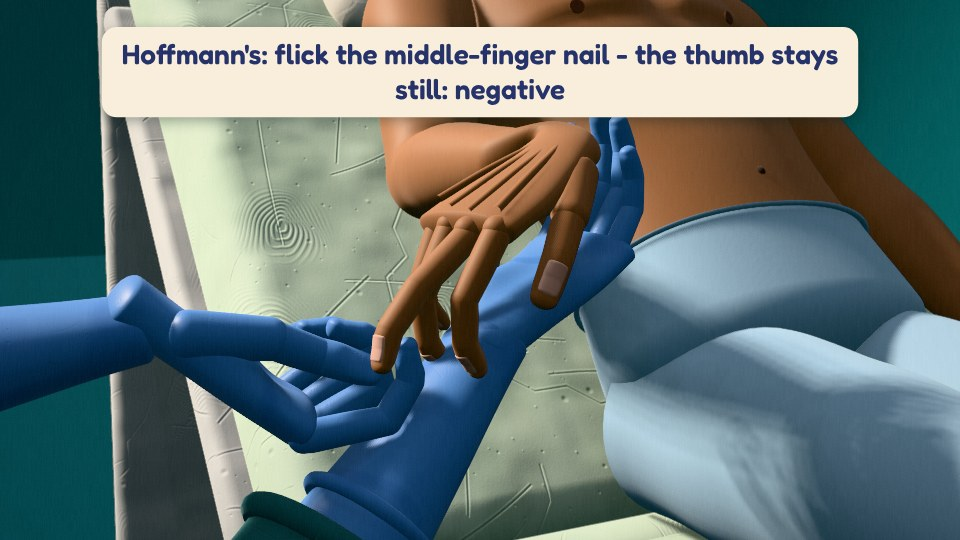
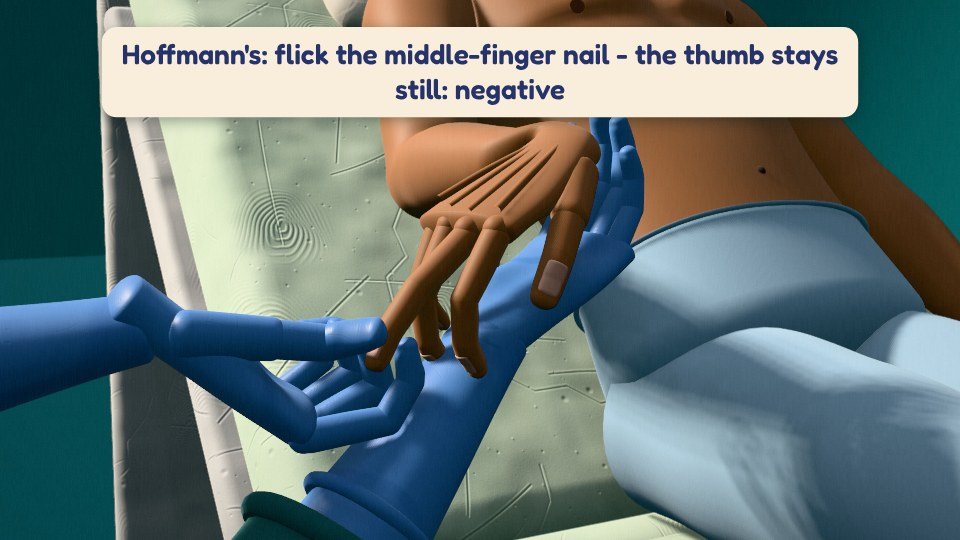
Round 3 solve: triceps arm on the mattress (elbow 90, forearm across, strike 3 cm above the olecranon from outside), biceps fingers curled round the elbow onto the skin, supinator fingers straight and together along the radius, reinforcement face insert and tighter tap shot; panels renumbered for th
Claude-Session: https://claude.ai/code/session_018C3XZZwWfCkMA58rbqUkQr

Changed region(s): [[0.2812, 0.563, 0.4375, 0.8]]

diff --git a/src/cns7-style.js b/src/cns7-style.js
@@ -69,7 +69,7 @@
   const KEYS = {
     cam: [[0, 'home'], [HOME_HOLD, 'home'], [4.6, 'upper'], [6.5, 'upper'], [8.2, 'bicR'], [10.8, 'bicR'], [10.8, 'bicL', 'cut'],
       [15.0, 'supR', 'cut'], [18.4, 'supL', 'cut'], [24.0, 'triR', 'cut'], [30.1, 'triL', 'cut'],
-      [34.0, 'reinf', 'cut'], [41.0, 'knees', 'cut'], [51.0, 'jend', 'cut'], [59.0, 'legsWide', 'cut'], [60.9, 'legsWide'], [60.9, 'ankR', 'cut'], [63.4, 'ankL', 'cut'],
+      [34.0, 'reinf', 'cut'], [35.6, 'reinfFace', 'cut'], [36.6, 'reinf', 'cut'], [41.0, 'knees', 'cut'], [51.0, 'jend', 'cut'], [59.0, 'legsWide', 'cut'], [60.9, 'legsWide'], [60.9, 'ankR', 'cut'], [63.4, 'ankL', 'cut'],
       [69.0, 'clonR', 'cut'], [74.2, 'clonL', 'cut'], [78.0, 'kneeClonR', 'cut'], [81.6, 'kneeClonL', 'cut'], [85.0, 'hoffR', 'cut'], [89.2, 'hoffL', 'cut'],
       [94.0, 'upper', 'cut'], [96.0, 'home'], [D, 'home']],
     armR: [[0, 'home'], [6.5, 'home'], [7.6, 'abdR'], [24.9, 'abdR'], [26.2, 'chestR'], [28.3, 'chestR'], [29.3, 'abdR'], [42.5, 'abdR'], [43.4, 'home'], [52.5, 'home'], [53.6, 'jend0R'], [54.25, 'jend0R'], [54.4, 'jend1R'], [55.6, 'jend1R'], [56.1, 'jend0R'], [57.1, 'home'],
@@ -278,6 +278,22 @@
           return { ex: { hand: 'R', wrist: k.wrist, quat: k.quat, pose: k.pose, back: d.clone().negate().add(V(0.2, -0.25, 0.7)).normalize() }, hammerPos: k.hammerPos, hammerQuat: k.hammerQuat, target: target.clone(), normal: normal.clone(), hand: 'R', gap: k.measured };
         };
 
+        // the strike, searched over the swing plane about the target's normal: the raised hammer (bounce and top, either way)
+        // clears all of him and the mattress, the handle clears him at the strike, the hammer hand high
+        const strikeSearch = (T, n, dirBase, fld, name) => {
+          const hmAll = []; hammer.group.traverse((m) => { if (m.isMesh) hmAll.push(m); });
+          const handle = hmAll.filter((m) => !hammer.head.children.includes(m)), pf = CONTACT.field(patientMeshes()); let bk = null;
+          for (let ang = 0; ang < 360; ang += 30) {
+            const k2 = solveStrike(T, n, dirBase.clone().applyAxisAngle(n, ang * Math.PI / 180), fld);
+            let g = -Infinity; for (const sg of [1, -1]) { let gs = Infinity; for (const a of [0.12, 0.3, 0.62]) { applyStrike(k2, sg * a); const x = CONTACT.minGap(hmAll, pf, null, 0, 0.3, 2).gap; gs = Math.min(gs, isFinite(x) ? x : 0.03, bedGap(hmAll).gap); } g = Math.max(g, gs); }
+            applyStrike(k2, 0); const hx = CONTACT.minGap(handle, pf, null, 0, 0.3, 2).gap, bg = bedGap(hmAll).gap;
+            const sc = 10 * Math.max(0, 0.008 - g) + 10 * Math.max(0, 0.003 - (isFinite(hx) ? hx : 0.03)) + 10 * Math.max(0, 0.002 - bg) - 0.001 * k2.ex.wrist.y + 0.0002 * Math.min(ang, 360 - ang) / 30;
+            if (!bk || sc < bk.sc) bk = { sc, k2, ang, g };
+          }
+          log(name, 'strike: swing plane turned', bk.ang, 'deg; raised hammer to his skin / the mattress', mm(bk.g), 'mm, gap at the strike', mm(bk.k2.gap), 'mm');
+          bk.k2.ex.sleeve = SLEEVE_UP.clone();
+          return bk.k2;
+        };
         // --------------------------------------------------- his arms across his abdomen (biceps and supinator jerks)
         // The kit's acrossAbdomen preset, fine-tuned: the elbow rests on the mattress beside his trunk (or, lifted
         // `up` units, in the examiner's cupped palm), the forearm across his lower abdomen, the hand palm down on it,
@@ -296,12 +312,12 @@
             // the wrist on his lower abdomen at forearm length from the elbow
             const wAt = (xw) => { const r = P.surfacePoint(-sz * xw, WS, 'front'); if (!r) return null; return { p: r.point.clone().addScaledVector(r.normal, lift), n: r.normal }; };
             let a = WX, b = 2.6; for (let k = 0; k < 40; k++) { const m = (a + b) / 2, wm = wAt(m); if (wm && wm.p.distanceTo(E) > L2 - 0.03) a = m; else b = m; }
-            const w = wAt((a + b) / 2);
+            const w = wAt((a + b) / 2); if (!w) return null;                 // no trunk surface there (too high): the caller backs off
             const fd = F.left.clone().multiplyScalar(sz).addScaledVector(F.up, -0.18).normalize();
             const mid = Sh.clone().lerp(w.p, 0.5), pole = E.clone().sub(mid).normalize();
             st = { wrist: w.p, quat: HANDS.quat(fd, w.n), pose: FINGERS_REST, pole };
             applyArm(side, st);
-            const fld = CONTACT.field(torsoMeshes()), g = Math.min(CONTACT.minGap(armMeshes(side).slice(0, 1), fld, w.p, 1.3).gap, CONTACT.minGap(armMeshes(side).slice(1), fld, null, 0).gap);
+            const fld = CONTACT.field(torsoMeshes()), RR = o.R || 0.06, g = Math.min(CONTACT.minGap(armMeshes(side).slice(0, 1), fld, w.p, 1.3, RR).gap, CONTACT.minGap(armMeshes(side).slice(1), fld, null, 0, RR).gap);   // o.R: the search range (wide where the hand starts deep in him)
             if (!isFinite(g)) { lift -= 0.06; continue; }
             if (Math.abs(g - 0.0006) < 0.0002) break;
             lift -= g - 0.0006;
@@ -368,7 +384,7 @@
         // The grasp: the palm rests against the outside of his elbow, the fingers settle round it, the thumb reaches across
         // the front of the elbow and its pad rests on the tendon. Searched: where the palm rests (round the arm, along it),
         // how the hand is turned on the skin; scored on the thumb's reach, no part sinking, the forearm toward the examiner.
-        const GRASP_POSE = { all: [0.35, 0.5, 0.3], spread: 0.3, fan: { index: 0.03, middle: 0, ring: -0.03, little: -0.07 }, thumb: [0.2, 0, 0.15, 0.1] };
+        const GRASP_POSE = { all: [0.35, 0.5, 0.3], spread: 0.08, fan: { index: 0.01, middle: 0, ring: -0.01, little: -0.03 }, thumb: [0.2, 0, 0.15, 0.1] };   // fingers together
         const graspTendon = (side, hand, T, n, want, o = {}) => {
           const a = P.arms[side], b = bendInside(side), fld = CONTACT.field([a.armMesh]), tor = CONTACT.field(torsoMeshes()), caps = armCaps(side);
           const rcm = new THREE.Mesh(a.armMesh.geometry, new THREE.MeshBasicMaterial({ side: THREE.DoubleSide })); rcm.matrixWorld.copy(a.armMesh.matrixWorld); rcm.matrixAutoUpdate = false;
@@ -396,18 +412,19 @@
           // settle: the palm onto the skin, then the fingers round the arm, then the thumb pad on the tendon
           hand.pose(GRASP_POSE);
           CONTACT.rest(hand, 'palm', best.at, best.nn, best.quat, fld, 0.0006, 0.3);
-          const ex = { hand: hand === EX.L.hand ? 'L' : 'R', wrist: hand.group.position.clone(), quat: best.quat, pose: GRASP_POSE, back: V(-1, 0, 0).applyQuaternion(best.quat).normalize() };
+          const ex = { hand: hand === EX.L.hand ? 'L' : 'R', wrist: hand.group.position.clone(), quat: best.quat, pose: GRASP_POSE, back: V(-1, 0, 0).applyQuaternion(best.quat).normalize(), sleeve: SLEEVE_UP.clone() };
           applyEx(ex.hand, ex);
-          ex.pose = CONTACT.curlToTouch(hand, ['index', 'middle', 'ring', 'little'], fld, GRASP_POSE, { gap: 0.0006, from: -0.3, to: 1.4 });
+          ex.pose = CONTACT.curlToTouch(hand, ['index', 'middle', 'ring', 'little'], fld, GRASP_POSE, { gap: 0.0006, from: -0.3, to: 1.4 });   // each finger settles round his elbow onto the skin
           applyEx(ex.hand, ex);
           const th = CONTACT.thumbOn(hand, T, n, fld, 0.0006);
-          ex.thumbQ = th.tq;
+          ex.thumbQ = th.tq; applyEx(ex.hand, ex);
+          { const all = CONTACT.field([a.armMesh].concat(torsoMeshes())), g = CONTACT.minGap(handMeshes(hand), all, null, 0, 0.15).gap; if (g < 0) { ex.wrist = ex.wrist.clone().addScaledVector(best.nn, 0.0003 - g); applyEx(ex.hand, ex); } }   // nothing under his skin
           log('grasp', side, 'palm at', best.along, 'along, round', best.ang, 'turn', best.psi, 'reach', best.reach.toFixed(2), 'score', best.sc.toFixed(3), '| thumb pad', mm(th.pad), 'mm, lowest thumb point', mm(th.all), 'mm');
           return ex;
         };
         // the hand flat on the FRONT of his upper arm (which faces the same way as the tendon), fingers together pointing up
         // his arm toward the shoulder; the thumb then lies along the crease and its pad rests on the tendon
-        const FRONT_POSE = { all: [0.12, 0.16, 0.1], spread: 0.25, fan: { index: 0.03, middle: 0, ring: -0.03, little: -0.07 }, thumb: [0.2, 0, 0.15, 0.1] };
+        const FRONT_POSE = { all: [0.12, 0.16, 0.1], spread: 0.06, fan: { index: 0.03, middle: 0, ring: -0.03, little: -0.07 }, thumb: [0.2, 0, 0.15, 0.1] };
         const thumbBiceps = () => {
           const side = 'R', hand = EX.L.hand; applyArm(side, SOL.arms.abdR);
           const T = SOL.lm.bicepsTendon_R.point, n = SOL.lm.bicepsTendon_R.normal, b = bendInside(side), fld = CONTACT.field([P.arms[side].armMesh]);
@@ -416,7 +433,7 @@
           // The hand flat on the front of his upper arm just above the elbow, turned on the skin by psi from "fingers up his
           // arm" so that the examiner's forearm can rise from the wrist toward him with a natural wrist (bent back at most
           // 50 degrees, never sideways); the hand slides up the arm until the thumb's base is at 0.6 of its reach from the tendon.
-          const D = V(0.55, 0.65, 0.5).normalize(), torF = CONTACT.field(torsoMeshes());                       // the examiner's forearm: up and toward his feet (he stands at the level of his hip)
+          let D = V(0.55, 0.65, 0.5).normalize(); const torF = CONTACT.field(torsoMeshes()), outside = V(0, -0.3, 1).normalize();   // outside / back of his right elbow                       // the examiner's forearm: up and toward his feet (he stands at the level of his hip)
           const acr = V(0, 0, 0).crossVectors(n, b.u).normalize();
           const placeAt = (back, psi, ac = 0) => {
             const c = T.clone().addScaledVector(b.u, back).addScaledVector(acr, ac), hit = new THREE.Raycaster(c.clone().addScaledVector(n, 1.2), n.clone().negate()).intersectObject(rcm, false)[0];
@@ -428,19 +445,23 @@
             return hand.thumb.base.getWorldPosition(V(0, 0, 0)).distanceTo(T) / 1.04;
           };
           let bestB = null;
-          for (const psi of [0, -0.8, 0.8, -1.2, -1.6, 1.6]) for (const ac of [0, 0.15, -0.15, 0.3, -0.3]) {
+          for (const Dc of [V(0.55, 0.65, 0.5), V(0.15, 0.95, 0.2)]) for (const psi of [-1.6, -0.8, 0.8, 1.6]) for (const ac of [0, -0.3, 0.3]) {
+            D = Dc.clone().normalize();
             let lo = 0.0, hi = 1.6; for (let it = 0; it < 11; it++) { const m = (lo + hi) / 2; if (placeAt(m, psi, ac) < 0.6) lo = m; else hi = m; }
             const r = placeAt((lo + hi) / 2, psi, ac); const e0 = ex;
             const th = CONTACT.thumbOn(hand, T, n, fld, 0.0009), sink = Math.min(CONTACT.minGap(handMeshes(hand), fld, null, 0, 0.15, 3).gap, CONTACT.minGap(handMeshes(hand), torF, null, 0, 0.15, 3).gap);
             const up = Math.max(0, 0.35 - e0.back.y);                      // the forearm must rise (never down toward the bed or across his body)
-            const sc = Math.abs((isFinite(th.pad) ? th.pad : 0.03) - 0.0006) + 4 * Math.max(0, -sink) + 0.004 * Math.max(0, e0.ang - 0.87) + 0.05 * up + 0.0003 * Math.abs(psi);
+            const fdir = V(1, 0, 0).applyQuaternion(e0.quat), wrap = Math.max(0, 0.6 - fdir.dot(outside));   // the fingers point round the outside of the elbow
+            const sc = Math.abs((isFinite(th.pad) ? th.pad : 0.03) - 0.0006) + 4 * Math.max(0, -sink) + 0.004 * Math.max(0, e0.ang - 0.87) + 0.05 * up + 0.003 * wrap + 0.0003 * Math.abs(psi);
             log('biceps hand turn', psi, 'across', ac, 'thumb pad', mm(th.pad), 'lowest', mm(sink), 'mm, wrist to the forearm line', (e0.ang * 180 / Math.PI).toFixed(0), 'deg');
-            if (!bestB || sc < bestB.sc) bestB = { sc, m: (lo + hi) / 2, psi, ac, r };
+            if (!bestB || sc < bestB.sc) bestB = { sc, m: (lo + hi) / 2, psi, ac, r, D: D.clone() };
           }
-          const reach = placeAt(bestB.m, bestB.psi, bestB.ac), lo = bestB.m, hi = bestB.m; delete ex.psi; delete ex.ang;
-          ex.pose = CONTACT.curlToTouch(hand, ['index', 'middle', 'ring', 'little'], fld, FRONT_POSE, { gap: 0.0006, from: -0.2, to: 1.0, together: true }); applyEx('L', ex);
+          D = bestB.D; const reach = placeAt(bestB.m, bestB.psi, bestB.ac), lo = bestB.m, hi = bestB.m; delete ex.psi; delete ex.ang;
+          ex.pose = CONTACT.curlToTouch(hand, ['index', 'middle', 'ring', 'little'], fld, FRONT_POSE, { gap: 0.0006, from: -0.2, to: 1.6 }); applyEx('L', ex);   // each finger curls round his elbow onto the skin (together: no spread)
+          const uncurl = (hd, side, fl, fingers) => { const pr = CONTACT.handParts(hd); for (const k of fingers) for (let it = 0; it < 40; it++) { const g = CONTACT.minGap(pr[k], fl, null, 0, 0.15).gap; if (!isFinite(g) || g >= 0.0001) break; ex.pose.curl[k] = ex.pose.curl[k].map((v, j) => v - 0.02 * [0.55, 1, 0.7][j]); applyEx(side, ex); } };
+          uncurl(hand, 'L', fld, ['index', 'middle', 'ring', 'little']);
           const th = CONTACT.thumbOn(hand, T, n, fld, 0.0009); ex.thumbQ = th.tq; applyEx('L', ex);
-          liftClear('L', ex, n, fld, 0.0003);
+          if (CONTACT.minGap(handMeshes(hand), fld, null, 0, 0.15).gap < 0) liftClear('L', ex, n, fld, 0.0003);
           { const tg = CONTACT.minGap(handMeshes(hand), torF, null, 0, 0.15).gap; if (tg < 0 && tg > -0.0012) { ex.wrist = ex.wrist.clone().addScaledVector(n, 0.0003 - tg); applyEx('L', ex); } }   // a touch clear of his chest (at most 1.2 mm up)
           th.pad = CONTACT.gapNear(hand, 'thumbPad', fld, 0.05).gap; th.all = CONTACT.minGap(CONTACT.handParts(hand).thumb, fld, null, 0, 0.15).gap;
           const deep = CONTACT.minSdf(handMeshes(hand), armCaps(side), 2);
@@ -453,6 +474,7 @@
           log('biceps tendon', s, 'measured', r3(f.point), 'normal', r3(f.normal), 'facing the inside of the bend', f.score);
         }
         if (want('biceps2')) {
+          applyArm('R', SOL.arms.abdR); applyArm('L', SOL.arms.abdL);
           const ex = thumbBiceps();
           SOL.ex.thumbR = ex; SOL.ex.thumbL = mirEx(ex);
           applyArm('R', SOL.arms.abdR); applyArm('L', SOL.arms.abdL); applyEx('L', ex);
@@ -465,19 +487,7 @@
           const nail = h.world('thumbNail'), nn = V(0, 1, 0).transformDirection(h.thumb.ip.matrixWorld).normalize();
           const nailField = CONTACT.field(h.thumb.ip.children.filter((m) => m.isMesh));
           const q = nailField.query(nail, 0.05);
-          {   // searched: the hammer's swing plane about the nail's normal, so the raised hammer (bounce and top) clears all of him
-            const hmAll = []; hammer.group.traverse((m) => { if (m.isMesh) hmAll.push(m); });
-            const pf = CONTACT.field(patientMeshes()); let bk = null;
-            for (let ang = 0; ang < 360; ang += 30) {
-              const k2 = solveStrike(q.q, q.n, STRIKE_DIR.bic.clone().applyAxisAngle(q.n, ang * Math.PI / 180), nailField);
-              let g = Infinity; for (const sg of [1, -1]) { let gs = Infinity; for (const a of [0.12, 0.3, 0.62]) { applyStrike(k2, sg * a); const x = CONTACT.minGap(hmAll, pf, null, 0, 0.3, 2).gap; gs = Math.min(gs, isFinite(x) ? x : 0.03); } if (!isFinite(g) || gs > g) g = gs; }
-              applyStrike(k2, 0); const hx = CONTACT.minGap(hmAll.filter((m) => !hammer.head.children.includes(m)), pf, null, 0, 0.3, 2).gap;
-              const sc = 10 * Math.max(0, 0.008 - g) + 10 * Math.max(0, 0.003 - (isFinite(hx) ? hx : 0.03)) - 0.001 * k2.ex.wrist.y + 0.0002 * Math.min(ang, 360 - ang) / 30;
-              if (!bk || sc < bk.sc) bk = { sc, k2, ang, g };
-            }
-            SOL.strikes.bicR = bk.k2; SOL.strikes.bicR.ex.sleeve = SLEEVE_UP.clone();
-            log('biceps strike: swing plane turned', bk.ang, 'deg; raised hammer to his skin', mm(bk.g), 'mm');
-          }
+          SOL.strikes.bicR = strikeSearch(q.q, q.n, STRIKE_DIR.bic, nailField, 'biceps');
           SOL.strikes.bicL = mirStrike(SOL.strikes.bicR);
           const Tb = SOL.lm.bicepsTendon_R.point;
           applyStrike(SOL.strikes.bicR, 0);
@@ -499,7 +509,7 @@
         // --------------------------------------------------- supinator jerk: the examiner's left index and middle fingers lie
         // together on the radial side of his forearm 5 cm above the wrist (over the brachioradialis tendon); the hammer falls
         // on the back of the examiner's fingers (as on the thumb for the biceps). The examiner's forearms come from above.
-        const FING_POSE = { curl: { index: [0.08, 0.12, 0.06], middle: [0.08, 0.12, 0.06], ring: [1.15, 1.35, 0.85], little: [1.2, 1.4, 0.85] }, spread: 0.05, fan: { index: 0.02, middle: 0, ring: -0.03, little: -0.06 }, thumb: [0.55, 0.35, 0.35, 0.2] };
+        const FING_POSE = { curl: { index: [0.02, 0.04, 0.02], middle: [0.02, 0.04, 0.02], ring: [1.45, 1.6, 1.1], little: [1.5, 1.6, 1.1] }, spread: 0.02, fan: { index: 0, middle: 0, ring: -0.02, little: -0.04 }, thumb: [0.12, 0.05, 0.1, 0.05] };   // index + middle straight and together, ring + little curled into the palm, the thumb alongside
         const fingersOnRadius = () => {
           const hand = EX.L.hand, a = P.arms.R; a.group.updateMatrixWorld(true);
           const afld = CONTACT.field([a.armMesh]), all = CONTACT.field(armMeshes('R').concat(torsoMeshes()));
@@ -509,9 +519,9 @@
           const n = afld.query(T, 0.1).n.clone();
           const want = V(0.15, 0.75, 0.65).normalize();                   // his forearm toward him, from above
           let best = null;
-          for (let psi = 0; psi < 360; psi += 20) {
+          for (const psi of [-30, -15, 0, 15, 30, 150, 165, 180, 195, 210]) for (const roll of [-0.5, -0.25, 0, 0.25, 0.5]) {   // the two fingers lie ALONG the radial border; rolled so both rest on it
             const g0 = f.clone().addScaledVector(n, -f.dot(n)).normalize().applyAxisAngle(n, psi * Math.PI / 180);
-            const quat = HANDS.quat(g0, n);
+            const quat = new THREE.Quaternion().setFromAxisAngle(g0, roll).multiply(HANDS.quat(g0, n));
             hand.pose(FING_POSE); HANDS.place(hand, 'middleMidBack', T.clone().addScaledVector(n, 0.2), quat); hand.group.updateMatrixWorld(true);
             // the line between the index and middle middle phalanges over T
             const c = hand.world('indexMidBack').lerp(hand.world('middleMidBack'), 0.5), sh = T.clone().addScaledVector(n, 0.2).sub(c);
@@ -519,16 +529,21 @@
             applyEx('L', e); liftClear('L', e, n, all, 0.0004);
             const pr = CONTACT.handParts(hand), gi = CONTACT.minGap(pr.index, afld, null, 0, 0.15).gap, gm = CONTACT.minGap(pr.middle, afld, null, 0, 0.15).gap;
             const fore = V(-1, 0, 0).applyQuaternion(quat), bed = bedGap(handMeshes(hand)).gap;
-            const sc = Math.abs((isFinite(gi) ? gi : 0.03) - 0.0005) + Math.abs((isFinite(gm) ? gm : 0.03) - 0.0005) + 0.004 * (1 - fore.dot(want)) + 2 * Math.max(0, 0.002 - bed);
-            if (!best || sc < best.sc) best = { sc, e, psi, gi, gm };
+            const sc = 2 * Math.max(Math.abs((isFinite(gi) ? gi : 0.03) - 0.0005), Math.abs((isFinite(gm) ? gm : 0.03) - 0.0005)) + 0.004 * (1 - fore.dot(want)) + 2 * Math.max(0, 0.002 - bed);
+            if (!best || sc < best.sc) best = { sc, e, psi, gi, gm, roll };
           }
           const ex = best.e; applyEx('L', ex);
-          ex.pose = CONTACT.curlToTouch(hand, ['index', 'middle'], afld, FING_POSE, { gap: 0.0005, from: -0.15, to: 0.6, together: true }); applyEx('L', ex);
+          ex.pose = CONTACT.curlToTouch(hand, ['index', 'middle'], afld, FING_POSE, { gap: 0.0005, from: 0, to: 0.3 }); applyEx('L', ex);   // each rests on the skin, kept nearly straight
           liftClear('L', ex, n, all, 0.0003);
+          {   // the thumb relaxed alongside, resting on his forearm if it is close (kept only if nothing sinks)
+            const tq0 = afld.query(hand.world('thumbPad'), 0.3);
+            if (tq0.q && tq0.d < 0.02) { const fx0 = V(1, 0, 0).applyQuaternion(ex.quat), to = CONTACT.thumbOn(hand, tq0.q, tq0.n, afld, 0.0006, fx0); const sk = CONTACT.minGap(handMeshes(hand), all, null, 0, 0.15).gap;
+              if (sk >= 0 && isFinite(to.pad) && to.pad < tq0.d) ex.thumbQ = to.tq.map((q) => q.clone()); applyEx('L', ex); }
+          }
           const fx = V(-1, 0, 0).applyQuaternion(ex.quat);
           ex.back = fx.clone().multiplyScalar(0.45).add(V(0.1, 0.8, 0.55)).normalize(); ex.sleeve = SLEEVE_UP.clone(); applyEx('L', ex);
           const pr = CONTACT.handParts(hand);
-          log('supinator fingers: turn', best.psi, 'index', mm(CONTACT.minGap(pr.index, afld, null, 0, 0.15).gap), 'middle', mm(CONTACT.minGap(pr.middle, afld, null, 0, 0.15).gap), 'mm; lowest of the hand vs his arm + trunk', mm(CONTACT.minGap(handMeshes(hand), all, null, 0, 0.15).gap), 'mm; point', (T.distanceTo(Wr) * 10).toFixed(2), 'cm above the wrist');
+          log('supinator fingers: turn', best.psi, 'roll', best.roll, 'index', mm(CONTACT.minGap(pr.index, afld, null, 0, 0.15).gap), 'middle', mm(CONTACT.minGap(pr.middle, afld, null, 0, 0.15).gap), 'mm; lowest of the hand vs his arm + trunk', mm(CONTACT.minGap(handMeshes(hand), all, null, 0, 0.15).gap), 'mm; point', (T.distanceTo(Wr) * 10).toFixed(2), 'cm above the wrist');
           return { ex, T, n };
         };
         applyArm('R', SOL.arms.abdR); applyArm('L', SOL.arms.abdL);
@@ -539,12 +554,11 @@
           // the hammer on the back of whichever finger lies over the point (the middle phalanx)
           const fk = hand.world('indexMidBack').distanceTo(fr.T) < hand.world('middleMidBack').distanceTo(fr.T) ? 'index' : 'middle';
           const ffld = CONTACT.field(hand.fingers[fk].pip.children.filter((m) => m.isMesh)), q = ffld.query(hand.world(fk + 'MidBack'), 0.05);
-          SOL.strikes.supR = solveStrike(q.q, q.n, STRIKE_DIR.sup, ffld);
-          SOL.strikes.supR.ex.sleeve = SLEEVE_UP.clone(); SOL.strikes.supR.finger = fk;
+          SOL.strikes.supR = strikeSearch(q.q, q.n, STRIKE_DIR.sup, ffld, 'supinator'); SOL.strikes.supR.finger = fk;
           SOL.strikes.supL = mirStrike(SOL.strikes.supR); SOL.strikes.supL.ex.sleeve = mz(SLEEVE_UP);
           applyStrike(SOL.strikes.supR, 0);
           const fg = CONTACT.partGaps(hand, CONTACT.field(armMeshes('R')));
-          SOL.gaps.supFing = { index: mm(fg.index.gap), middle: mm(fg.middle.gap), lowest: mm(Math.min(...Object.values(fg).map((v) => v.gap))), aboveWrist: +(fr.T.distanceTo(P.arms.R.hand.group.getWorldPosition(V(0, 0, 0))) * 10).toFixed(2), strikeGap: mm(SOL.strikes.supR.gap) };
+          SOL.gaps.supFing = { index: mm(fg.index.gap), middle: mm(fg.middle.gap), thumb: mm(fg.thumb.gap), ring: mm(fg.ring.gap), little: mm(fg.little.gap), fingersApart: mm(hand.world('indexMidBack').distanceTo(hand.world('middleMidBack'))), lowest: mm(Math.min(...Object.values(fg).map((v) => v.gap))), aboveWrist: +(fr.T.distanceTo(P.arms.R.hand.group.getWorldPosition(V(0, 0, 0))) * 10).toFixed(2), strikeGap: mm(SOL.strikes.supR.gap) };
           log('supinator gaps', JSON.stringify(SOL.gaps.supFing), 'hammer on the', fk, 'finger');
           // from his side at arm level, a little footward: his forearm, the two fingers on it, the hammer, his elbow
           const supCam = (sd) => {
@@ -560,14 +574,49 @@
         // --------------------------------------------------- triceps jerk: his forearm across his chest (kit acrossChest), the
         // examiner's left hand holding his right wrist from above, fingers round it; the hammer just above the olecranon
         if (want('tri')) {
-          // the kit preset bends the elbow to ~53 degrees: open it to 90 (the forearm turned about the elbow, across his chest)
-          let st = NEURO.arm(P, 'R', 'acrossChest'); applyArm('R', st);
-          { const b0 = bendInside('R'), ax = V(0, 0, 0).crossVectors(b0.u, b0.f).normalize(), r = new THREE.Quaternion().setFromAxisAngle(ax, (90 - b0.angle) * Math.PI / 180);
-            st = Object.assign({}, st, { wrist: b0.E.clone().add(st.wrist.clone().sub(b0.E).applyQuaternion(r)), quat: r.clone().multiply(st.quat) }); applyArm('R', st);
-            log('triceps: elbow opened from', b0.angle, 'to', bendInside('R').angle, 'deg; his hand to his chest', mm(CONTACT.minGap(handMeshes(P.arms.R.hand), CONTACT.field(torsoMeshes()), null, 0, 0.15).gap), 'mm'); }
+          // His upper arm RESTS on the mattress beside his trunk (abducted ~35 degrees), the elbow at 90 degrees, his forearm
+          // across his chest with the hand palm down on it toward his other side (the arms-across preset, built higher on the
+          // trunk): searched how far out the elbow lies (abduction) and how high on his chest the wrist lies (elbow angle);
+          // then the elbow lowered until the upper arm just rests on the mattress (measured).
+          const F0 = trunk(), Sh0 = P.shoulder('R');
+          const abdOf = () => { const a0 = P.arms.R; a0.group.updateMatrixWorld(true); const v = a0.fore.getWorldPosition(V(0, 0, 0)).sub(Sh0); v.addScaledVector(F0.front, -v.dot(F0.front)); return +(v.angleTo(F0.up.clone().negate()) * 180 / Math.PI).toFixed(1); };
+          const armBed = () => bedGap([P.arms.R.armMesh]).gap;
+          let bestA = null;
+          for (const ES of [3.3, 3.55, 3.8, 4.05]) {
+            let lo = 0.45, hi = 4.5, st = null;
+            for (let it = 0; it < 12; it++) { const m = (lo + hi) / 2; st = abdArm('R', 0, { z: ES, s: m, R: 0.3 }); if (st && bendInside('R').angle > 90) lo = m; else hi = m; }
+            st = abdArm('R', 0, { z: ES, s: lo, R: 0.3 }); if (!st) continue; const ang = bendInside('R').angle, ab = abdOf();
+            const e = Math.abs(ang - 90) / 10 + Math.abs(ab - 35) / 10;
+            log('triceps arm: elbow out', ES, 'wrist height', ((lo + hi) / 2).toFixed(3), 'elbow', ang, 'deg, abduction', ab, 'deg');
+            if (!bestA || e < bestA.e) bestA = { e, ES, s: lo };
+          }
+          let up = 0, st = abdArm('R', 0, { z: bestA.ES, s: bestA.s, R: 0.3 });
+          for (let it = 0; it < 5; it++) { const g = armBed(); if (!isFinite(g) || Math.abs(g - 0.0005) < 0.0002) break; up -= g - 0.0005; st = abdArm('R', up, { z: bestA.ES, s: bestA.s, R: 0.3 }) || st; }
+          { let lo = Math.max(0.3, bestA.s - 0.8), hi = bestA.s + 0.8; for (let it = 0; it < 10; it++) { const m = (lo + hi) / 2; const s2 = abdArm('R', up, { z: bestA.ES, s: m, R: 0.3 }); if (s2 && bendInside('R').angle > 90) lo = m; else hi = m; } st = abdArm('R', up, { z: bestA.ES, s: lo, R: 0.3 }) || st; }
+          applyArm('R', st);
+          {   // his hand rests on his chest by its lowest point (nothing of it in his chest): lifted along the chest's normal
+            const tf = CONTACT.field(torsoMeshes());
+            for (let it = 0; it < 10; it++) { const r = CONTACT.minGap(handMeshes(P.arms.R.hand), tf, null, 0, 0.3); if (!isFinite(r.gap) || Math.abs(r.gap - 0.0005) < 0.0002) break; const nn = tf.query(r.at, 0.3).n || F0.front; st = Object.assign({}, st, { wrist: st.wrist.clone().addScaledVector(nn, 0.0005 - r.gap) }); applyArm('R', st); }
+            st.pose = CONTACT.curlToTouch(P.arms.R.hand, ['index', 'middle', 'ring', 'little'], tf, st.pose, { gap: 0.0006, from: -0.2, to: 0.8 }); applyArm('R', st);
+          }
           SOL.arms.chestR = st; SOL.arms.chestL = mirArm(st);
-          const b = bendInside('R'), tri = elbowPoint('R', 2.55, 2.75, 'back');
+          const handChest = CONTACT.minGap(handMeshes(P.arms.R.hand), CONTACT.field(torsoMeshes()), null, 0, 0.15).gap;
+          SOL.gaps.triArm = { upperArmOnMattress: mm(armBed()), handOnChest: mm(handChest), elbow: bendInside('R').angle, abduction: abdOf() };
+          log('triceps arm', JSON.stringify(SOL.gaps.triArm));
+          // the triceps tendon 2-3 cm above the olecranon, on the back of the arm where it faces out to his side and up (the
+          // hammer comes from above and outside); the olecranon: the back of the elbow
+          const b = bendInside('R'), olec = elbowPoint('R', 2.95, 3.1, 'back');
+          const tri = (() => {
+            const a0 = P.arms.R, B = a0.armMesh.userData.base, pa = a0.armMesh.geometry.attributes.position, na = a0.armMesh.geometry.attributes.normal; a0.armMesh.updateMatrixWorld(true);
+            const outD = b.inside.clone().negate(); outD.addScaledVector(b.u, -outD.dot(b.u)).normalize();
+            const want = V(0, 0.35, 1).normalize(); let best = -2, bi = -1; const nv = V(0, 0, 0);   // facing out to his side (and a little up): the hammer comes from above and outside
+            const pv = V(0, 0, 0);
+            for (let i = 0; i < pa.count; i++) { const x = B[3 * i]; if (x < 2.3 || x > 3.0) continue; pv.fromBufferAttribute(pa, i).applyMatrix4(a0.armMesh.matrixWorld); const dd = pv.distanceTo(olec.point); if (dd < 0.2 || dd > 0.3) continue; nv.fromBufferAttribute(na, i).transformDirection(a0.armMesh.matrixWorld); if (nv.dot(outD) < -0.1) continue; const sc = nv.dot(want); if (sc > best) { best = sc; bi = i; } }   // 2-3 cm from the olecranon, on the back / outer side
+            return { point: V(0, 0, 0).fromBufferAttribute(pa, bi).applyMatrix4(a0.armMesh.matrixWorld), normal: V(0, 0, 0).fromBufferAttribute(na, bi).transformDirection(a0.armMesh.matrixWorld).normalize() };
+          })();
           SOL.lm.tricepsTendon_R = tri; SOL.lm.tricepsTendon_L = { point: mz(tri.point), normal: mz(tri.normal) };
+          SOL.lm.olecranonR = { point: olec.point, normal: olec.normal }; SOL.lm.olecranonL = { point: mz(olec.point), normal: mz(olec.normal) };
+          SOL.gaps.triArm.strikeToOlecranon = +(tri.point.distanceTo(olec.point) * 10).toFixed(2);
           const kt = NEURO.points(P);
           log('triceps tendon measured', r3(tri.point), 'normal', r3(tri.normal), '; kit tricepsTendon is', (kt.normals.tricepsTendon_R.angleTo(tri.normal) * 180 / Math.PI).toFixed(0), 'deg away; elbow', b.angle, 'deg');
           // the wrist hold
@@ -592,12 +641,19 @@
             const th = CONTACT.thumbOn(hand, Tp, Tn, fld, 0.0008); ex.thumbQ = th.tq; applyEx('L', ex);
             log('wrist hold thumb pad', mm(th.pad), 'mm, lowest thumb point', mm(th.all), 'mm');
           }
+          {   // nothing of the hold in his wrist, hand or trunk: a finger that sinks un-curls, then the hand rests by its lowest point
+            const hf = CONTACT.field(armMeshes('R').concat(torsoMeshes())), pr = CONTACT.handParts(hand);
+            for (const k of ['index', 'middle', 'ring', 'little']) for (let it = 0; it < 60; it++) { const g = CONTACT.minGap(pr[k], hf, null, 0, 0.15).gap; if (!isFinite(g) || g >= 0.0001) break; ex.pose.curl[k] = ex.pose.curl[k].map((v, j) => v - 0.02 * [0.55, 1, 0.7][j]); applyEx('L', ex); }
+            liftClear('L', ex, top, hf, 0.0003);
+            ex.pose = CONTACT.curlToTouch(hand, ['index', 'middle', 'ring', 'little'], hf, ex.pose, { gap: 0.0006, from: 0, to: 0.6 }); applyEx('L', ex);   // and settle back onto the skin
+          }
           SOL.ex.wristR = ex; SOL.ex.wristL = mirEx(ex);
           SOL.ex.wristRel = relTo(ex, a.hand.group);           // the hold, carried with his hand while the examiner lifts it
           const g = CONTACT.partGaps(hand, fld);
           SOL.gaps.wristR = Object.fromEntries(Object.entries(g).map(([k2, v]) => [k2, mm(v.gap)]));
           log('wrist hold gaps (mm)', JSON.stringify(SOL.gaps.wristR));
-          SOL.strikes.triR = solveStrike(tri.point, tri.normal, STRIKE_DIR.tri, CONTACT.field([a.armMesh])); SOL.strikes.triR.ex.sleeve = SLEEVE_UP.clone(); SOL.strikes.triL = mirStrike(SOL.strikes.triR);
+          SOL.strikes.triR = strikeSearch(tri.point, tri.normal, V(0, -1, -0.6), CONTACT.field([a.armMesh]), 'triceps'); SOL.strikes.triL = mirStrike(SOL.strikes.triR);
+          log('triceps strike point', SOL.gaps.triArm.strikeToOlecranon, 'cm above the olecranon');
           log('triceps strike gap', mm(SOL.strikes.triR.gap), 'mm');
           const Tt = tri.point;
           applyEx('L', ex); applyStrike(SOL.strikes.triR, 0);
@@ -1137,9 +1193,16 @@
           CAMS['bic' + sd] = { pos: tb.clone().addScaledVector(d, sd === 'R' ? 10 : 6.6).toArray(), target: tb.toArray(), focus: tb.toArray(), aperture: 0.02, fov: sd === 'R' ? 28 : 40 };
         }
       }
-      {   // reinforcement: aimed a little higher and further back, so his face and jaw sit below the caption with the elbow, thumb and hammer still in frame
-        const c = SOL.cams.reinf, t0 = V(...(c.target.isVector3 ? c.target.toArray() : c.target)), p0 = V(...(c.pos.isVector3 ? c.pos.toArray() : c.pos)), d = p0.clone().sub(t0).normalize(), t1 = t0.clone().add(V(0.4, 0.9, 0));
-        CAMS.reinf = { pos: t1.clone().addScaledVector(d, 17.5).toArray(), target: t1.toArray(), focus: t0.toArray(), aperture: 0.03, fov: 28 };
+      {   // reinforcement. The tap shot: from his side, a little from the head end, framed tight enough for his face (clenched
+        // jaw) with the elbow, the thumb and the hammer. The insert (35.6-36.6 s): his face close from his right front, the
+        // teeth clenching and the masseter bulging, then a hard cut back for the tap.
+        const k = NEURO.points(P), jaw = k.masseter_R, chin = k.chin, fh = k.forehead, Tb = SOL.lm.bicepsTendon_R.point;
+        const c = SOL.cams.reinf, t0 = V(...(c.target.isVector3 ? c.target.toArray() : c.target)), p0 = V(...(c.pos.isVector3 ? c.pos.toArray() : c.pos)), d = p0.clone().sub(t0).normalize();
+        const t1 = jaw.clone().lerp(Tb, 0.45).add(V(0.2, 0.55, 0));
+        CAMS.reinf = { pos: t1.clone().addScaledVector(d, 12.0).toArray(), target: t1.toArray(), focus: jaw.clone().lerp(Tb, 0.5).toArray(), aperture: 0.03, fov: 28 };
+        const fc = chin.clone().lerp(fh, 0.45), front = k.noseTip.clone().sub(k.masseter_R.clone().lerp(k.masseter_L, 0.5)).normalize(), side = k.masseter_R.clone().sub(k.masseter_L).normalize();
+        const fd = front.clone().multiplyScalar(0.55).addScaledVector(side, 0.85).normalize(), ft = fc.clone().add(V(0, 0.35, 0));
+        CAMS.reinfFace = { pos: ft.clone().addScaledVector(fd, 6.0).toArray(), target: ft.toArray(), focus: jaw.toArray(), aperture: 0.015, fov: 28 };
       }
       const camVec = (c) => [...c.pos, ...c.target, ...(Array.isArray(c.focus) ? c.focus : c.target), c.fov || 28, c.aperture == null ? 0.02 : c.aperture];
       const camAt = (t) => CH.cam(t, (n) => camVec(CAMS[n]), (a, b, u) => a.map((v, i) => K.lerp(v, b[i], u)));
@@ -1286,6 +1349,7 @@
         midR: () => CONTACT.field(P.arms.R.hand.fingers.middle.dip.children.filter((m) => m.isMesh)), midL: () => CONTACT.field(P.arms.L.hand.fingers.middle.dip.children.filter((m) => m.isMesh)),
         patient: () => { const ms = []; P.group.traverse((m) => { if (m.isMesh && m.visible && m.geometry && m.geometry.attributes.position.count > 200) ms.push(m); }); return CONTACT.field(ms); },
         thumbNailR: () => CONTACT.field(EX.R.hand.thumb.ip.children.filter((m) => m.isMesh)), thumbNailL: () => CONTACT.field(EX.L.hand.thumb.ip.children.filter((m) => m.isMesh)),
+        torso: () => CONTACT.field(torsoMeshes()),
         exFingR: () => { const pr = CONTACT.handParts(EX.R.hand); return CONTACT.field(pr.index.concat(pr.middle)); }, exFingL: () => { const pr = CONTACT.handParts(EX.L.hand); return CONTACT.field(pr.index.concat(pr.middle)); },
       };
       const partMeshes = (h, part) => {
@@ -1301,6 +1365,12 @@
         root.CAPTIONS = false; root.REVIEW_MARKS = null; root.CAM_OVERRIDE = null;
         update(r.t);
         const gaps = {}, marks = [], values = {};
+        if (r.facePx) { const k = NEURO.points(P), a = proj(k.chin, 960, 540), b = proj(k.forehead, 960, 540); values['his face, chin to brow (px at 960x540)'] = Math.round(Math.hypot(a[0] - b[0], a[1] - b[1])); }
+        if (r.tri) { const sd = r.tri; values['strike point to the olecranon (cm)'] = +(SOL.lm['tricepsTendon_' + sd].point.distanceTo(SOL.lm['olecranon' + sd].point) * 10).toFixed(2);
+          const m = P.arms[sd].armMesh, pa = m.geometry.attributes.position, w = V(0, 0, 0); let best = Infinity, at = null; m.updateMatrixWorld(true);
+          for (let i = 0; i < pa.count; i += 2) { w.fromBufferAttribute(pa, i).applyMatrix4(m.matrixWorld); const dd = w.y - hs(w.x, w.z); if (dd < best) { best = dd; at = w.clone(); } }
+          gaps['his upper arm on the mattress'] = +(best * 100).toFixed(2); if (at) marks.push({ at, to: V(at.x, hs(at.x, at.z), at.z), label: 'upper arm on the mattress ' + (best * 100).toFixed(2) + ' mm', v: best * 100, off: [14, 40] });
+          marks.push({ at: SOL.lm['olecranon' + sd].point, label: 'olecranon', color: '#7cf0ff', off: [16, 24] }); }
         const fcache = {};
         for (const c of r.contacts || []) {
           const fld = fcache[c.field] || (fcache[c.field] = FIELDS[c.field]());
